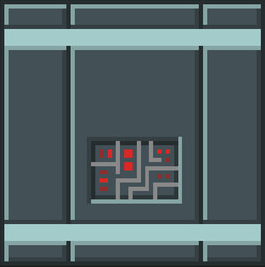
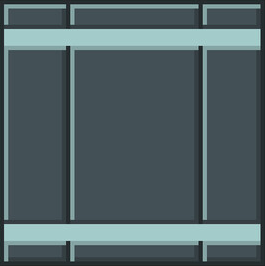
clean up

diff --git a/assn4/src/TileHandler.cpp b/assn4/src/TileHandler.cpp
@@ -1,7 +1,7 @@
 #include "TileHandler.h"
 
 TileHandler::TileHandler(){
-    tile_rect[0].y = 410; //rect initialization for ground1
+    tile_rect[0].y = 410; //rect initialization for tileGradient
     tile_rect[0].w = 40;
     tile_rect[0].h = 40;
 
@@ -9,17 +9,13 @@ TileHandler::TileHandler(){
     tile_rect[1].w = tile_rect[0].w;
     tile_rect[1].h = tile_rect[0].h;
 
-    tile_rect[2].y = 410; //rect initialization for ground1
-    tile_rect[2].w = 40;
-    tile_rect[2].h = 40;
+    tile_rect[2].y = 70; //rect initialization for background
+    tile_rect[2].w = 320; //width of the screen
+    tile_rect[2].h = 340; //height of the screen
 
-    tile_rect[3].y = 70; //rect initialization for background
-    tile_rect[3].w = 320; //width of the screen
-    tile_rect[3].h = 340; //height of the screen
-
-    tile_rect[4].y = 330; //rect initialization for background
-    tile_rect[4].w = 80; //width of the screen
-    tile_rect[4].h = 80; //height of the screen
+    tile_rect[3].y = 330; //rect initialization for background
+    tile_rect[3].w = 80; //width of the screen
+    tile_rect[3].h = 80; //height of the screen
 
     screen_left = 0;
     flip = SDL_FLIP_VERTICAL;
@@ -32,35 +28,14 @@ void TileHandler::tile_serve_texture(SDL_Surface* tile_surface, SDL_Renderer* ob
 }
 
 void TileHandler::tile_render(SDL_Renderer* obj_renderer){
-    //cout << "screen_left: " << screen_left % tile_rect[1].w << endl;
-    /*tile_rect[0].x = screen_left/2;
-    while(tile_rect[0].x <= SCREEN_WIDTH){ //while loop that goes through all the backdrop tiles and prints the ones in the camera view
-        SDL_RenderCopy(obj_renderer, tile_texture[0], NULL, &tile_rect[0]);
-        tile_rect[0].x += tile_rect[0].w;
-    }*/
-
-    /*tile_rect[0].y = 290;
-    tile_rect[0].x = screen_left % tile_rect[0].w;
+    tile_rect[0].y = 410;
+    tile_rect[0].x = screen_left % tile_rect[2].w;
+    tile_rect[1].x = screen_left % tile_rect[1].w;
     while(tile_rect[0].x <= SCREEN_WIDTH){ //while loop that goes through all the bottom ground tiles and prints the ones in the camera view
         SDL_RenderCopy(obj_renderer, tile_texture[0], NULL, &tile_rect[0]);
-        tile_rect[0].x += tile_rect[0].w;
-    }
-
-    tile_rect[4].y = 170;
-    tile_rect[4].x = screen_left % tile_rect[4].w;
-    while(tile_rect[4].x <= SCREEN_WIDTH){ //while loop that goes through all the bottom ground tiles and prints the ones in the camera view
-        SDL_RenderCopy(obj_renderer, tile_texture[4], NULL, &tile_rect[4]);
-        tile_rect[4].x += tile_rect[4].w;
-    }*/
-
-    tile_rect[2].y = 410;
-    tile_rect[2].x = screen_left % tile_rect[2].w;
-    tile_rect[1].x = screen_left % tile_rect[1].w;
-    while(tile_rect[2].x <= SCREEN_WIDTH){ //while loop that goes through all the bottom ground tiles and prints the ones in the camera view
-        SDL_RenderCopy(obj_renderer, tile_texture[2], NULL, &tile_rect[2]);
-        tile_rect[1].y = tile_rect[2].y + tile_rect[2].w;
+        tile_rect[1].y = tile_rect[0].y + tile_rect[0].w;
         SDL_RenderCopy(obj_renderer, tile_texture[1], NULL, &tile_rect[1]);
-        tile_rect[2].x += tile_rect[2].w;
+        tile_rect[0].x += tile_rect[0].w;
         tile_rect[1].x += tile_rect[1].w;
     }
 
@@ -75,28 +50,17 @@ void TileHandler::tile_render(SDL_Renderer* obj_renderer){
         tile_rect[1].x += tile_rect[1].w;
     }
 
-    tile_rect[3].x = screen_left/2;
-    while(tile_rect[3].x <= SCREEN_WIDTH){ //while loop that goes through all the backdrop tiles and prints the ones in the camera view
-        SDL_RenderCopy(obj_renderer, tile_texture[3], NULL, &tile_rect[3]);
-        tile_rect[3].x += tile_rect[3].w;
+    tile_rect[2].x = screen_left/2;
+    while(tile_rect[2].x <= SCREEN_WIDTH){ //while loop that goes through all the backdrop tiles and prints the ones in the camera view
+        SDL_RenderCopy(obj_renderer, tile_texture[2], NULL, &tile_rect[2]);
+        tile_rect[2].x += tile_rect[2].w;
     }
 
-    tile_rect[4].x = screen_left/2 + 120;
-    while(tile_rect[4].x <= SCREEN_WIDTH){
-        SDL_RenderCopy(obj_renderer, tile_texture[4], NULL, &tile_rect[4]);
-        tile_rect[4].x += 640;
-    }
-
-    /*tile_rect[3].y = 330;
-    tile_rect[4].y = 250;
-    tile_rect[3].x = screen_left % tile_rect[3].w;
-    tile_rect[4].x = screen_left % tile_rect[4].w;
-    while(tile_rect[3].x <= SCREEN_WIDTH){ //while loop that goes through all the bottom ground tiles and prints the ones in the camera view
+    tile_rect[3].x = screen_left/2 + 120;
+    while(tile_rect[3].x <= SCREEN_WIDTH){
         SDL_RenderCopy(obj_renderer, tile_texture[3], NULL, &tile_rect[3]);
-        SDL_RenderCopy(obj_renderer, tile_texture[4], NULL, &tile_rect[4]);
-        tile_rect[3].x += tile_rect[3].w;
-        tile_rect[4].x += tile_rect[4].w;
-    }*/
+        tile_rect[3].x += 640;
+    }
 }
 
 void TileHandler::tile_update_screen_left(int x_change){

diff --git a/assn4/src/GameEngine.cpp b/assn4/src/GameEngine.cpp
@@ -62,7 +62,7 @@ void GameEngine::obj_init(){
   sprite.sprite_serve_texture_run(temp, obj_renderer);
   SDL_FreeSurface(temp);
 
-  temp = IMG_Load("./images/tileGradient.png");
+  temp = IMG_Load("./images/ground1.png");
   tile.tile_serve_texture(temp, obj_renderer, 0);
   SDL_FreeSurface(temp);
 
@@ -70,16 +70,12 @@ void GameEngine::obj_init(){
   tile.tile_serve_texture(temp, obj_renderer, 1);
   SDL_FreeSurface(temp);
 
-  temp = IMG_Load("./images/tileGradient.png");
+  temp = IMG_Load("./images/background1.png");
   tile.tile_serve_texture(temp, obj_renderer, 2);
   SDL_FreeSurface(temp);
 
-  temp = IMG_Load("./images/background4.png");
-  tile.tile_serve_texture(temp, obj_renderer, 3);
-  SDL_FreeSurface(temp);
-
   temp = IMG_Load("./images/door1.png");
-  tile.tile_serve_texture(temp, obj_renderer, 4);
+  tile.tile_serve_texture(temp, obj_renderer, 3);
   SDL_FreeSurface(temp);
 
   temp = IMG_Load("./images/laser.png"); //adds laser obstacles

diff --git a/assn4/src/Screens.cpp b/assn4/src/Screens.cpp
@@ -13,7 +13,7 @@ Screens::~Screens(){}
 void Screens::main_menu(SDL_Renderer* obj_renderer)
 {
   //Load background
-  SDL_Surface* backSurface = IMG_Load("./images/background4.png");
+  SDL_Surface* backSurface = IMG_Load("./images/background1.png");
   SDL_Rect backDest = { 0, 0, 640, 480 };
   SDL_Texture* backText = SDL_CreateTextureFromSurface(obj_renderer, backSurface);
   SDL_RenderCopy(obj_renderer, backText, NULL, &backDest);
@@ -90,7 +90,6 @@ void Screens::pause_menu(SDL_Renderer* obj_renderer)
   SDL_SetRenderDrawColor(obj_renderer, 0, 0, 0, 255);
   SDL_RenderDrawRect(obj_renderer, &fill_the_screen);
   SDL_RenderFillRect(obj_renderer, &fill_the_screen);
-
 
   // Load in fonts and colors
   TTF_Font* ethnocenticItalic = TTF_OpenFont("./Fonts/ethnocentric rg it.ttf", 40);

diff --git a/assn4/include/TileHandler.h b/assn4/include/TileHandler.h
@@ -17,7 +17,7 @@ using namespace std;
 class TileHandler{
     private:
         SDL_Texture* tile_texture[5]; //stores the 3 textures background, ground, and ground2
-        SDL_Rect tile_rect[5]; //stores the SDL_Rect information for the different textures
+        SDL_Rect tile_rect[4]; //stores the SDL_Rect information for the different textures
         SDL_RendererFlip flip; //controls where the sprite is flipped or not
         int screen_left; //represents the left edge camera view
     public:
